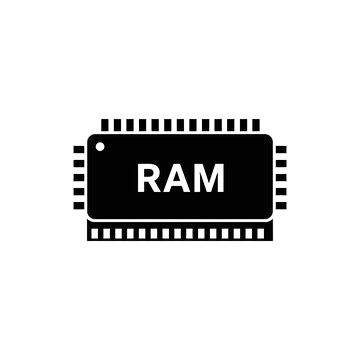
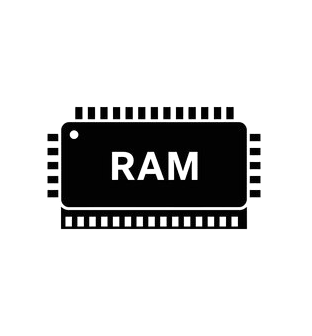
image issue another solution

Changed region(s): [[0.1442, 0.2976, 0.8365, 0.6845], [0.3462, 0.4464, 0.6346, 0.5357]]

diff --git a/src/components/ProductPickerModal.tsx b/src/components/ProductPickerModal.tsx
@@ -87,17 +87,17 @@ export default function ProductPickerModal({
                       {modalProductImg ? (
                         <Image
                           src={modalProductImg}
-                          height={100}
                           sizes="100px"
-                          width={100}
+                          width="100"
+                          height="100"
                           alt={getLocalizedTitle(prod)}
                           style={{ objectFit: 'contain' }}
                         />
                       ) : (
                         <Image
-                          height={45}
-                          width={45}
                           sizes="45px"
+                          width="45"
+                          height="45"
                           src={`/categories/${currentSlotConfig.key}.png`}
                           alt={currentSlotConfig.label}
                           style={{ objectFit: 'contain' }}

diff --git a/src/components/PcBuilderClient.tsx b/src/components/PcBuilderClient.tsx
@@ -360,16 +360,17 @@ export default function PcBuilderClient({
                     {itemImageUrl ? (
                       <Image
                         sizes="100px"
-                        fill
+                        width="100"
+                        height="100"
                         src={itemImageUrl}
                         alt={getLocalizedTitle(chosenItem)}
                         style={{ objectFit: 'contain' }}
                       />
                     ) : (
                       <Image
-                        height={50}
                         sizes="50px"
-                        width={50}
+                        width="100"
+                        height="100"
                         style={{ objectFit: 'contain' }}
                         src={
                           (slot as any).defaultImage || `/categories/${slot.key.toLowerCase()}.png`